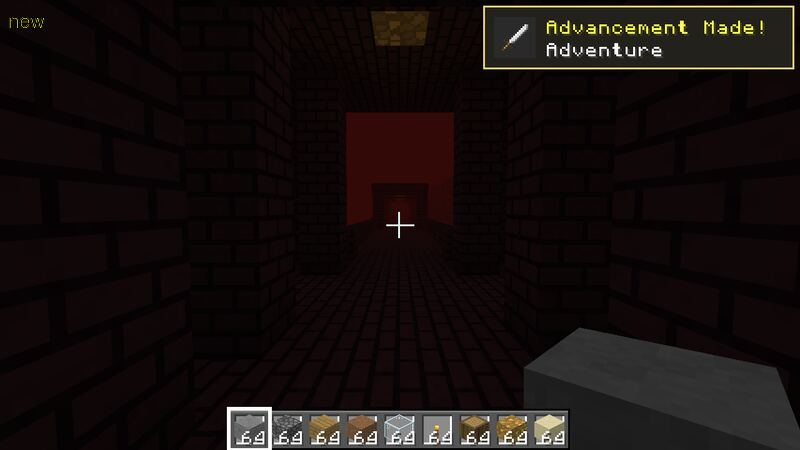
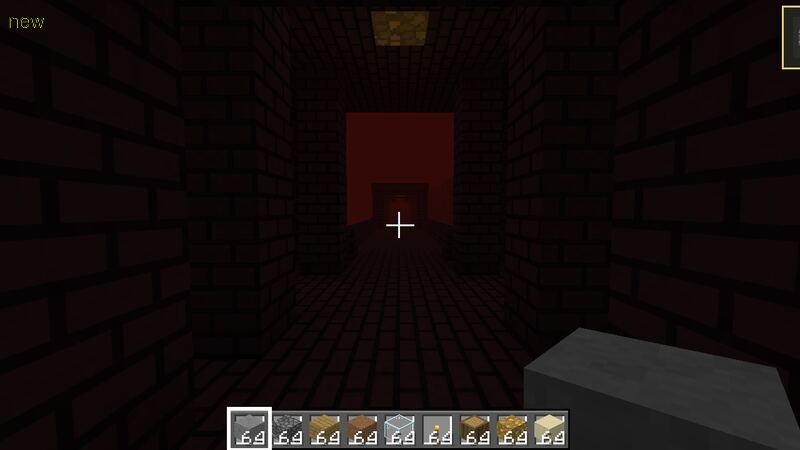
CI: visual results for 37658bc

Changed region(s): [[0.5938, 0.0, 1.0, 0.1556]]

diff --git a/ci-results/shots/report.md b/ci-results/shots/report.md
@@ -1,13 +1,13 @@
-# Visual run 2026-10-03 20:42:42 UTC
+# Visual run 2026-10-03 20:52:11 UTC
 
 | scene | rendered by | differing pixels (ref vs new) |
 |---|---|---|
-| nether-fortress | new | n/a |
+| adv-toast-long | new | n/a |
+| adv-toast | new | n/a |
 | nether-fortress-b | new | n/a |
-| nether-fortress-air | new | n/a |
 
 ## timings
 
-- nether-fortress/new: exit 0 in 16s
-- nether-fortress-b/new: exit 0 in 14s
-- nether-fortress-air/new: exit 0 in 15s
+- adv-toast-long/new: exit 0 in 21s
+- adv-toast/new: exit 0 in 16s
+- nether-fortress-b/new: exit 0 in 8s
